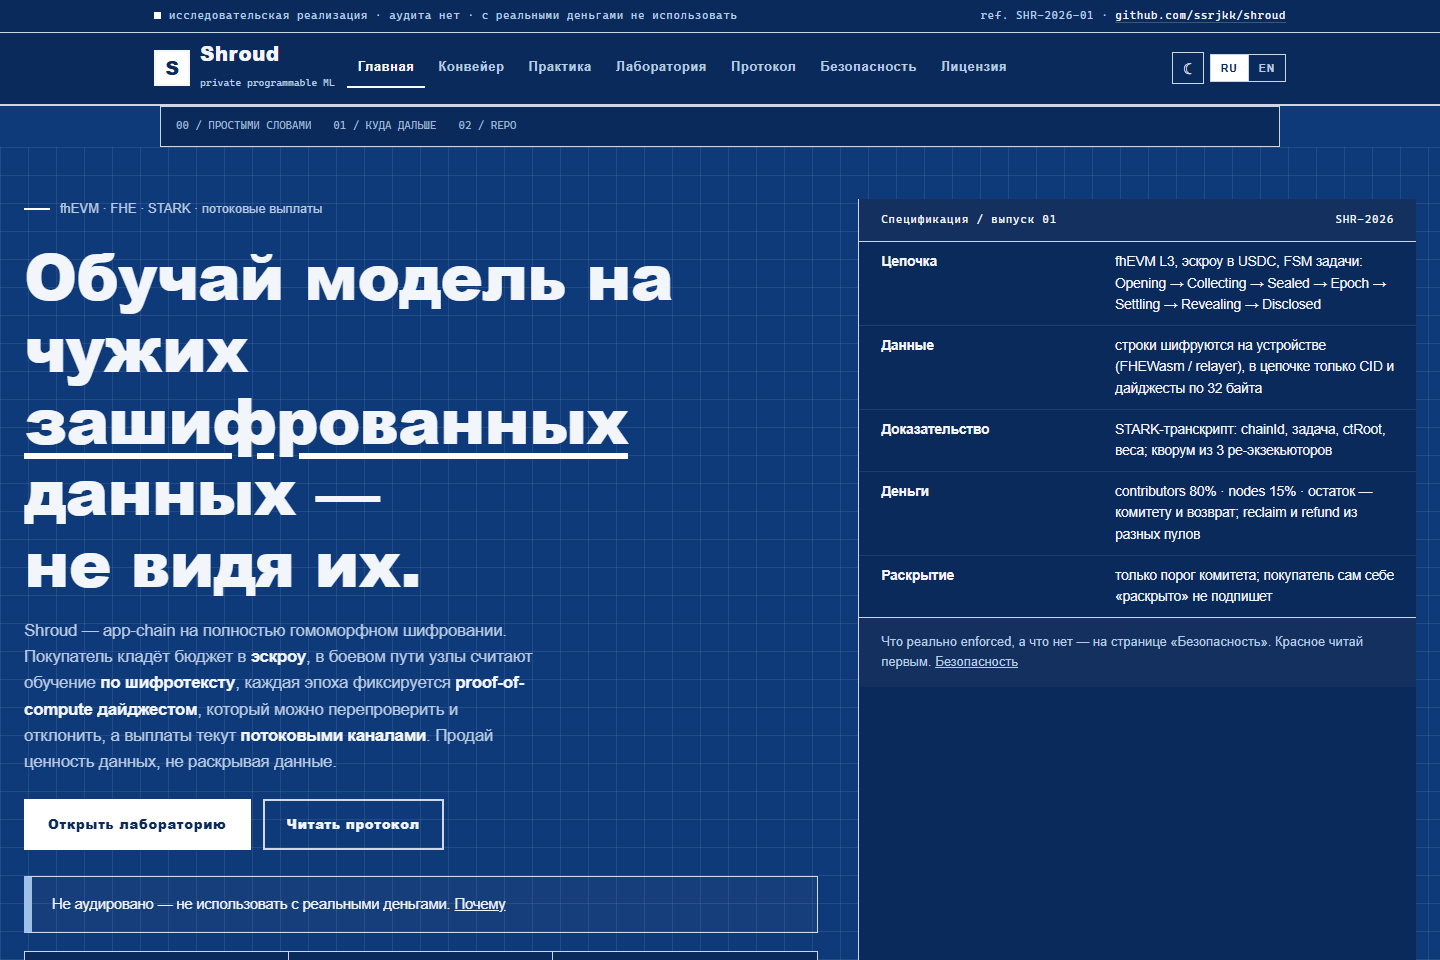
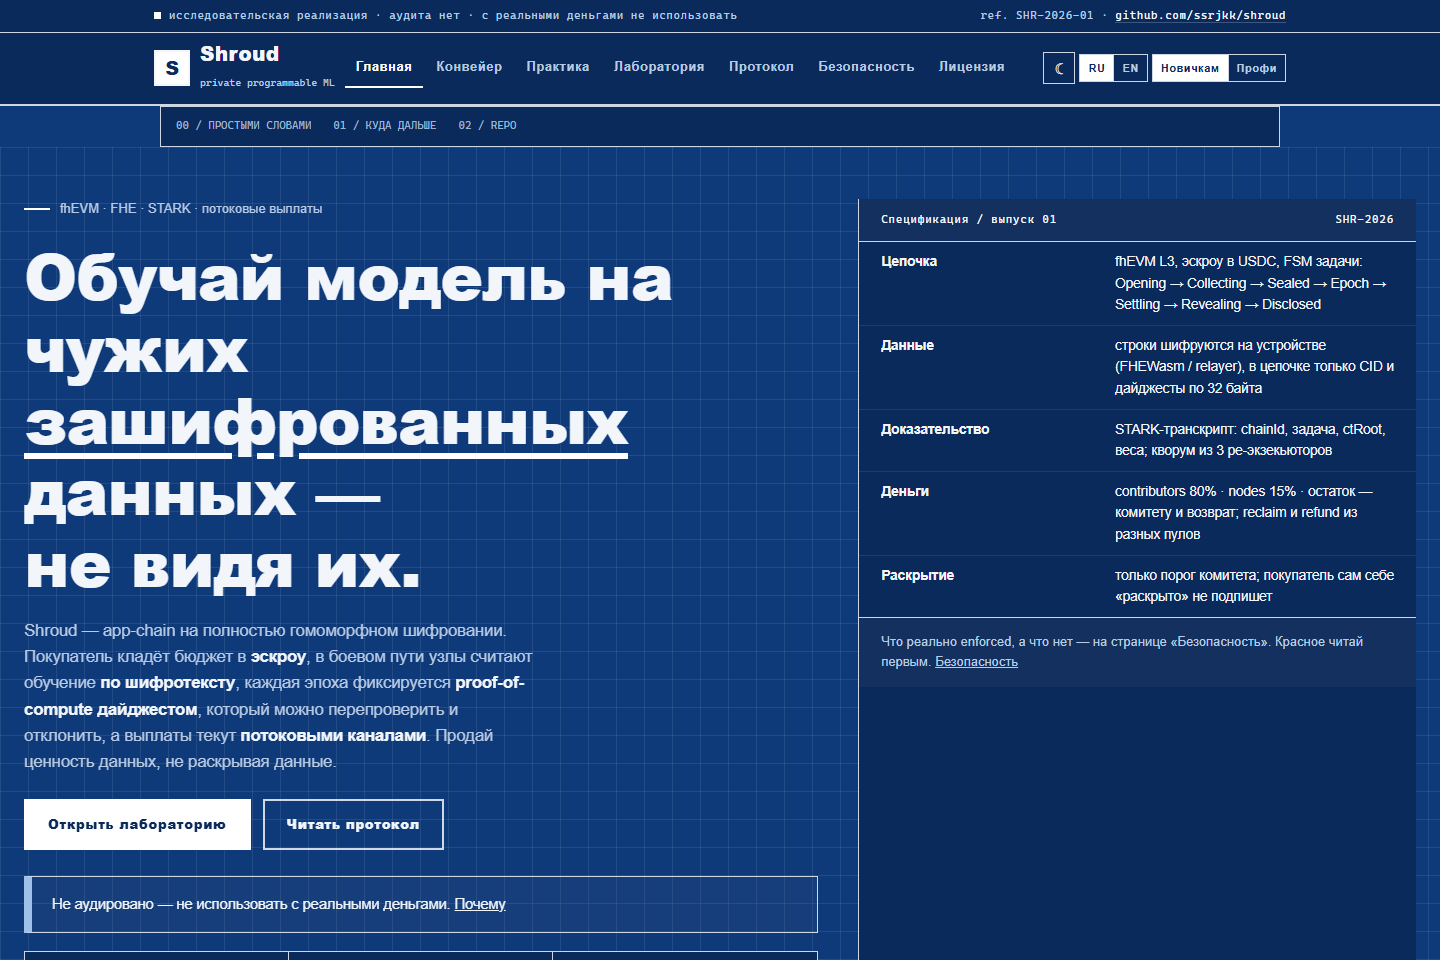
feat(web): reading-mode switch reachable from the masthead
The site advertised newcomer/pro modes from the start, but the buttons
existed only inside the lab. Landing straight on the home page meant
03 / PRO was simply unreachable, and there was no way to leave pro mode
either. The switch now sits in the masthead of the four pages whose
content changes with it (home, protocol, security, license) and shares
the shroud-mode key in localStorage, so the choice follows the visitor.
Pipeline and practice deliberately have no switch: nothing there is
gated by the mode.

Also translated: aria-label on the language and mode groups was
hardcoded English on Russian pages. Masthead spacing tightened so the
row still fits at 1280px (measured 1084 of 1132px in Russian, 939 in
English). nav.mjs gained rule 6: a page with only-new/only-pro blocks
must have a mode switch and vice versa, verified both ways on a
throwaway copy. docs/shots re-rendered with the switch in place.

Changed region(s): [[0.25, 0.0625, 0.625, 0.0938], [0.7188, 0.0312, 0.875, 0.0938], [0.6562, 0.0625, 0.6875, 0.0938]]

diff --git a/web/playground.html b/web/playground.html
@@ -31,7 +31,7 @@
   </nav>
   <div class="controls">
     <button class="iconbtn" data-theme-toggle aria-pressed="false" data-i18n-aria="theme.toggle" title="Theme"><span class="g-moon">☾</span><span class="g-sun">☀</span></button>
-    <div class="seg" role="group" aria-label="language"><button data-lang="ru" class="on">RU</button><button data-lang="en">EN</button></div>
+    <div class="seg" role="group" aria-label="language" data-i18n-aria="ui.lang"><button data-lang="ru" class="on">RU</button><button data-lang="en">EN</button></div>
   </div>
 </div></header>
 
@@ -41,7 +41,7 @@
   <p class="sect-lede" data-i18n="lab.lede">Шесть стендов плюс журнал с итогами. Математика — как в node/src/fhe.rs и @shroud/sdk (квантование, reference-SGD, keccak-транскрипт, STAR-референс), сверено скриптом web/tests/equiv.mjs. Демо-раскладка шарда — shroud/noop/v1 (боевая — relayer/TFHE, смысл байтов тот же). Итог — веса, дайджесты и JSON-отчёт.</p>
   <div class="notice warn"><b class="t" data-i18n="lab.honest">Честно о стенде</b><span data-i18n="lab.honestp">Reference-движок считает в открытую из демо-байтов (dev-путь узла: shroud/noop/v1, без шифрования). Боевой TFHE-путь включается флагом prover, полной ончейн-проверки STARK пока нет, первого живого commitEpoch ещё не было — см. docs/05 §8. Дефолтный lr 0.05 даёт lrQ16 3277, а золотые векторы пинят 3276 (см. vectors.json) — сверяйся с векторами при том же lrQ16. Стенд показывает порядок шагов и форматы, а не криптографические гарантии.</span></div>
 
-  <div class="lab-modes"><div class="seg" role="group" aria-label="mode"><button data-mode-btn="new" class="on" data-i18n="mode.simple">Новичкам</button><button data-mode-btn="pro" data-i18n="mode.pro">Профи</button></div></div>
+  <div class="lab-modes"><div class="seg" role="group" aria-label="mode" data-i18n-aria="ui.mode"><button data-mode-btn="new" class="on" data-i18n="mode.simple">Новичкам</button><button data-mode-btn="pro" data-i18n="mode.pro">Профи</button></div></div>
 
   <div class="lab">
   <div>

diff --git a/web/assets/style.css b/web/assets/style.css
@@ -52,7 +52,7 @@ pre.code .c{color:#8fa5c4}pre.code .k{color:var(--acc)}
 
 /* --- шапка --- */
 .masthead{background:var(--bg2);border-bottom:2px solid var(--line);position:sticky;top:0;z-index:40}
-.masthead-in{max-width:var(--max);margin:0 auto;padding:10px 24px;display:flex;align-items:center;gap:12px;justify-content:space-between;flex-wrap:wrap}
+.masthead-in{max-width:var(--max);margin:0 auto;padding:10px 24px;display:flex;align-items:center;gap:10px;justify-content:space-between;flex-wrap:wrap}
 .brand{display:flex;align-items:center;gap:10px;text-decoration:none}
 .brand-mark{width:36px;height:36px;border:2px solid var(--line);display:grid;place-items:center;
   background:var(--acc);color:var(--acc-ink);font-family:var(--disp);font-weight:800;font-size:19px;flex:none}
@@ -63,10 +63,10 @@ pre.code .c{color:#8fa5c4}pre.code .k{color:var(--acc)}
   color:var(--mut);padding:8px 11px;border-bottom:2px solid transparent}
 .nav a:hover{color:var(--ink)}
 .nav a.active{color:var(--acc);border-bottom-color:var(--acc)}
-.controls{display:flex;gap:6px;align-items:center;flex-wrap:wrap;margin-left:auto}
+.controls{display:flex;gap:4px;align-items:center;flex-wrap:wrap;margin-left:auto}
 .seg{display:flex;border:1px solid var(--line);background:transparent}
 .seg button{appearance:none;border:0;background:transparent;color:var(--mut);font-family:var(--disp);
-  font-weight:700;font-size:11px;letter-spacing:.05em;padding:7px 10px;cursor:pointer}
+  font-weight:700;font-size:11px;letter-spacing:.05em;padding:7px 8px;cursor:pointer}
 .seg button.on{background:var(--acc);color:var(--acc-ink)}
 .seg button + button{border-left:1px solid var(--line)}
 .iconbtn{width:32px;height:32px;border:1px solid var(--line);background:transparent;color:var(--ink);

diff --git a/web/assets/i18n.js b/web/assets/i18n.js
@@ -21,6 +21,7 @@
       "use.qt": "Devnet в трёх командах",
       "menu": "Меню", "close": "Закрыть",
       "ui.copy": "Копировать", "ui.copied": "Скопировано",
+      "ui.mode": "Режим чтения", "ui.lang": "Язык",
       "ui.toc": "Разделы страницы", "ui.top": "Наверх",
       "nav.home": "Главная", "nav.lab": "Лаборатория", "nav.proto": "Протокол",
       "nav.sec": "Безопасность", "nav.lic": "Лицензия",
@@ -414,6 +415,7 @@
       "use.qt": "The devnet in three commands",
       "menu": "Menu", "close": "Close",
       "ui.copy": "Copy", "ui.copied": "Copied",
+      "ui.mode": "Reading mode", "ui.lang": "Language",
       "ui.toc": "On this page", "ui.top": "Back to top",
       "nav.home": "Home", "nav.lab": "Lab", "nav.proto": "Protocol",
       "nav.sec": "Security", "nav.lic": "License",

diff --git a/web/index.html b/web/index.html
@@ -33,7 +33,8 @@
   </nav>
   <div class="controls">
     <button class="iconbtn" data-theme-toggle aria-pressed="false" data-i18n-aria="theme.toggle" title="Theme"><span class="g-moon">☾</span><span class="g-sun">☀</span></button>
-    <div class="seg" role="group" aria-label="language"><button data-lang="ru" class="on">RU</button><button data-lang="en">EN</button></div>
+    <div class="seg" role="group" aria-label="language" data-i18n-aria="ui.lang"><button data-lang="ru" class="on">RU</button><button data-lang="en">EN</button></div>
+    <div class="seg" role="group" aria-label="mode" data-i18n-aria="ui.mode"><button data-mode-btn="new" class="on" data-i18n="mode.simple">Новичкам</button><button data-mode-btn="pro" data-i18n="mode.pro">Профи</button></div>
   </div>
 </div></header>
 

diff --git a/web/license.html b/web/license.html
@@ -31,7 +31,8 @@
   </nav>
   <div class="controls">
     <button class="iconbtn" data-theme-toggle aria-pressed="false" data-i18n-aria="theme.toggle" title="Theme"><span class="g-moon">☾</span><span class="g-sun">☀</span></button>
-    <div class="seg" role="group" aria-label="language"><button data-lang="ru" class="on">RU</button><button data-lang="en">EN</button></div>
+    <div class="seg" role="group" aria-label="language" data-i18n-aria="ui.lang"><button data-lang="ru" class="on">RU</button><button data-lang="en">EN</button></div>
+    <div class="seg" role="group" aria-label="mode" data-i18n-aria="ui.mode"><button data-mode-btn="new" class="on" data-i18n="mode.simple">Новичкам</button><button data-mode-btn="pro" data-i18n="mode.pro">Профи</button></div>
   </div>
 </div></header>
 

diff --git a/web/protocol.html b/web/protocol.html
@@ -31,7 +31,8 @@
   </nav>
   <div class="controls">
     <button class="iconbtn" data-theme-toggle aria-pressed="false" data-i18n-aria="theme.toggle" title="Theme"><span class="g-moon">☾</span><span class="g-sun">☀</span></button>
-    <div class="seg" role="group" aria-label="language"><button data-lang="ru" class="on">RU</button><button data-lang="en">EN</button></div>
+    <div class="seg" role="group" aria-label="language" data-i18n-aria="ui.lang"><button data-lang="ru" class="on">RU</button><button data-lang="en">EN</button></div>
+    <div class="seg" role="group" aria-label="mode" data-i18n-aria="ui.mode"><button data-mode-btn="new" class="on" data-i18n="mode.simple">Новичкам</button><button data-mode-btn="pro" data-i18n="mode.pro">Профи</button></div>
   </div>
 </div></header>
 

diff --git a/web/security.html b/web/security.html
@@ -31,7 +31,8 @@
   </nav>
   <div class="controls">
     <button class="iconbtn" data-theme-toggle aria-pressed="false" data-i18n-aria="theme.toggle" title="Theme"><span class="g-moon">☾</span><span class="g-sun">☀</span></button>
-    <div class="seg" role="group" aria-label="language"><button data-lang="ru" class="on">RU</button><button data-lang="en">EN</button></div>
+    <div class="seg" role="group" aria-label="language" data-i18n-aria="ui.lang"><button data-lang="ru" class="on">RU</button><button data-lang="en">EN</button></div>
+    <div class="seg" role="group" aria-label="mode" data-i18n-aria="ui.mode"><button data-mode-btn="new" class="on" data-i18n="mode.simple">Новичкам</button><button data-mode-btn="pro" data-i18n="mode.pro">Профи</button></div>
   </div>
 </div></header>
 

diff --git a/web/404.html b/web/404.html
@@ -34,7 +34,7 @@
   </nav>
   <div class="controls">
     <button class="iconbtn" data-theme-toggle aria-pressed="false" data-i18n-aria="theme.toggle" title="Theme"><span class="g-moon">☾</span><span class="g-sun">☀</span></button>
-    <div class="seg" role="group" aria-label="language"><button data-lang="ru" class="on">RU</button><button data-lang="en">EN</button></div>
+    <div class="seg" role="group" aria-label="language" data-i18n-aria="ui.lang"><button data-lang="ru" class="on">RU</button><button data-lang="en">EN</button></div>
   </div>
 </div></header>
 

diff --git a/web/pipeline.html b/web/pipeline.html
@@ -33,7 +33,7 @@
   </nav>
   <div class="controls">
     <button class="iconbtn" data-theme-toggle aria-pressed="false" data-i18n-aria="theme.toggle" title="Theme"><span class="g-moon">☾</span><span class="g-sun">☀</span></button>
-    <div class="seg" role="group" aria-label="language"><button data-lang="ru" class="on">RU</button><button data-lang="en">EN</button></div>
+    <div class="seg" role="group" aria-label="language" data-i18n-aria="ui.lang"><button data-lang="ru" class="on">RU</button><button data-lang="en">EN</button></div>
   </div>
 </div></header>
 

diff --git a/web/use.html b/web/use.html
@@ -33,7 +33,7 @@
   </nav>
   <div class="controls">
     <button class="iconbtn" data-theme-toggle aria-pressed="false" data-i18n-aria="theme.toggle" title="Theme"><span class="g-moon">☾</span><span class="g-sun">☀</span></button>
-    <div class="seg" role="group" aria-label="language"><button data-lang="ru" class="on">RU</button><button data-lang="en">EN</button></div>
+    <div class="seg" role="group" aria-label="language" data-i18n-aria="ui.lang"><button data-lang="ru" class="on">RU</button><button data-lang="en">EN</button></div>
   </div>
 </div></header>
 

diff --git a/CHANGELOG.md b/CHANGELOG.md
@@ -6,6 +6,28 @@ first tagged release.
 
 ## Unreleased
 
+### Site: the reading-mode switch is now reachable
+
+- The site has advertised newcomer / pro modes from the start, but the buttons
+  existed only inside the lab: `data-mode-btn` appeared in `playground.html` and
+  nowhere else. Landing straight on the home page meant `03 / PRO` — the
+  constants table — was simply unreachable, and there was no way to leave pro
+  mode either. The switch now sits in the masthead of the four pages whose
+  content actually changes with it (home, protocol, security, license) and
+  shares the existing `shroud-mode` key in localStorage, so the choice follows
+  the visitor across the site. Pipeline and practice deliberately have no
+  switch: nothing on them is gated by the mode, and a dead control is worse
+  than none.
+- Masthead spacing tightened (segment padding 10→8px, gaps 12→10 and 6→4) so
+  brand + seven menu items + theme + language + mode still fit on one row at
+  1280px: measured 1084px of the 1132px available in the worst case (Russian),
+  939px in English.
+- `aria-label` on the language and mode groups was hardcoded English
+  ("language", "mode") on Russian pages; both are translated now.
+- `nav.mjs` gained the invariant that made this class of bug visible: a page with
+  `only-new` / `only-pro` blocks must have a mode switch, and a page with a mode
+  switch must have such blocks. Verified in both directions on a throwaway copy.
+
 ### Site: motion and small tools (no new dependencies, no build step)
 
 - **Animations**, all of them decorative and reversible: hero elements rise in
